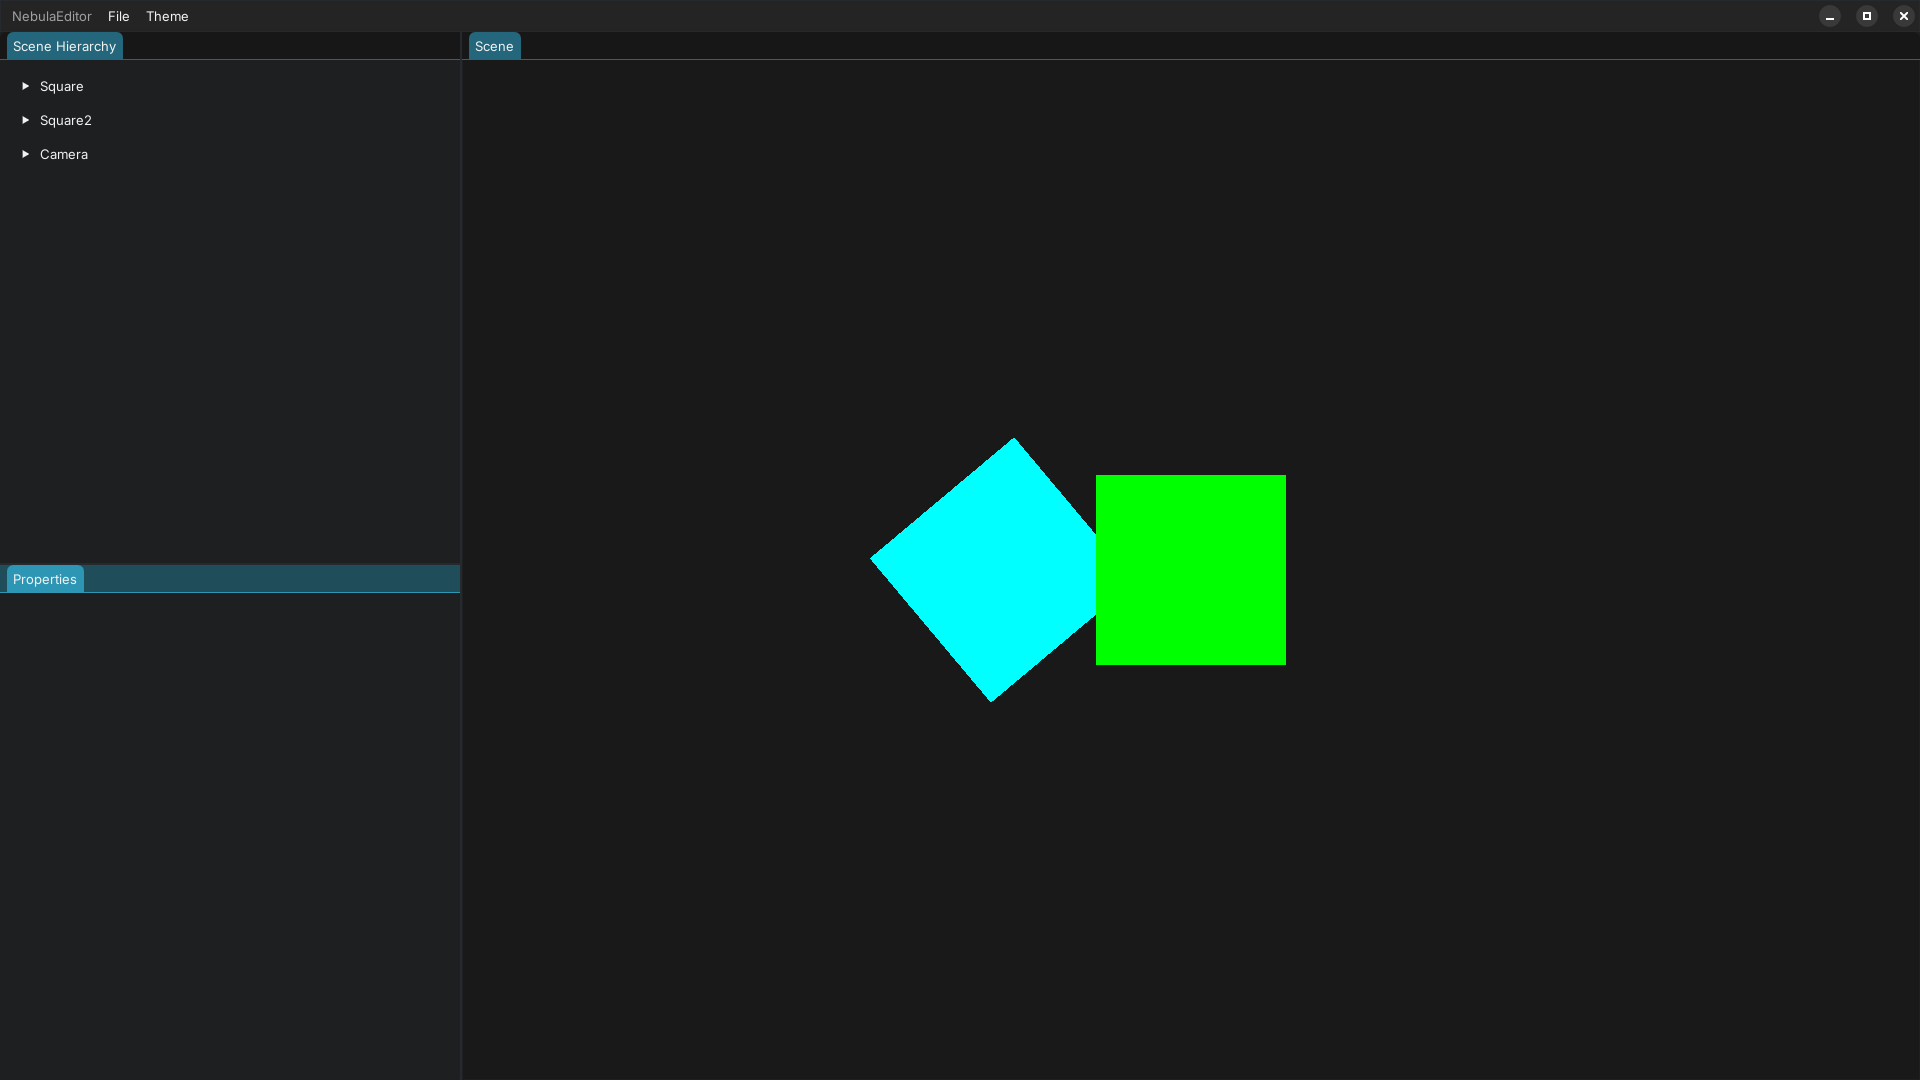
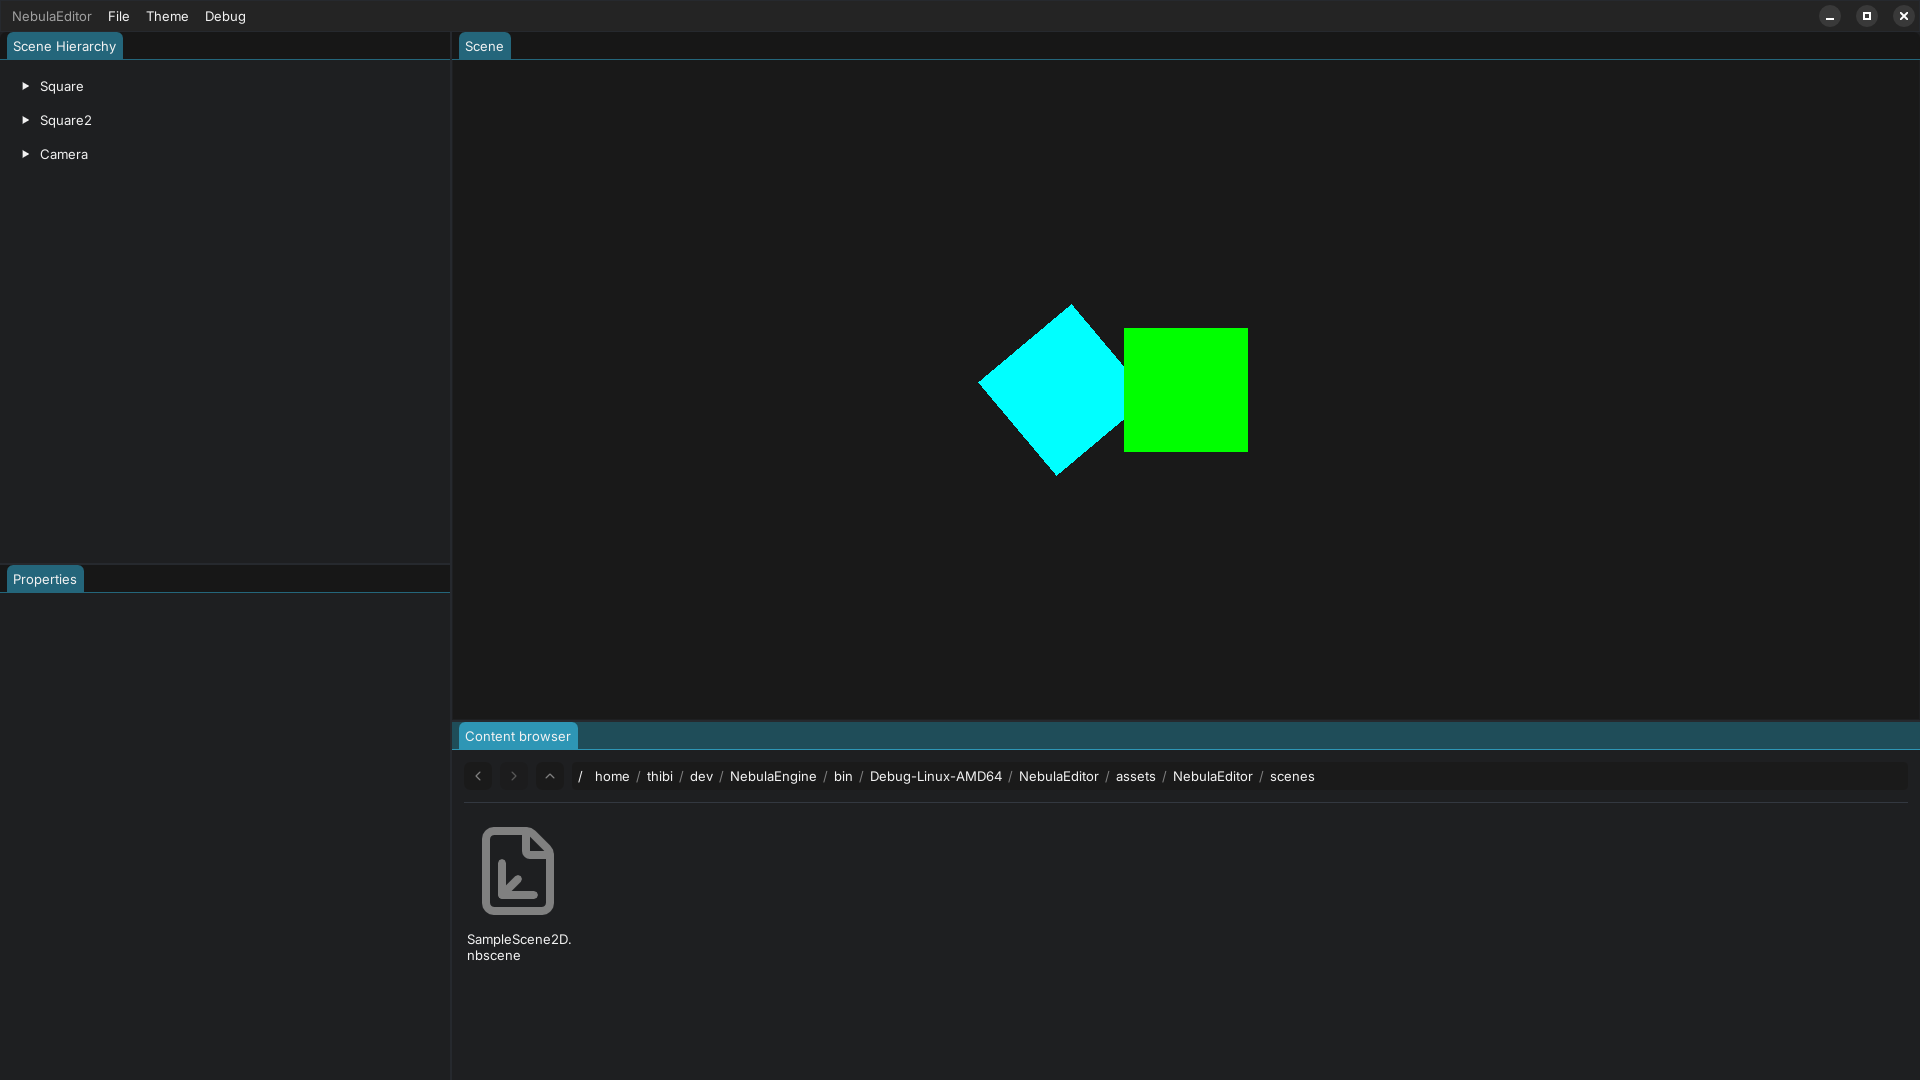
Updated README.md

diff --git a/README.md b/README.md
@@ -19,19 +19,19 @@ Supported Platforms:
 ## Dependencies
 
 Requirements for building on Windows:
-- CMake 4.0
+- CMake 4.1.2
 - Clang
 - NuGet
 - Windows 10.0.26100.0 SDK
 - Windows App SDK 2.1.3
 
 Requirements for building on macOS:
-- CMake 4.0
+- CMake 4.1.2
 - Clang
 - XCode
 
 Requirements for building on Linux:
-- CMake 4.0
+- CMake 4.1.2
 - Clang
 
 ## Credits
@@ -52,7 +52,7 @@ Libraries used:
 - [SDL3](https://www.libsdl.org/) (Linux only)
 - [Slang](https://github.com/shader-slang/slang)
 - [spdlog](https://github.com/gabime/spdlog)
-- [std_image](https://github.com/nothings/stb)
+- [stb_image](https://github.com/nothings/stb)
 - [C++/WinRT](https://github.com/microsoft/cppwinrt) (Windows only)
 - [yaml-cpp](https://github.com/jbeder/yaml-cpp)
 - [Windows App SDK](https://learn.microsoft.com/en-us/windows/apps/windows-app-sdk/) (Windows only)
